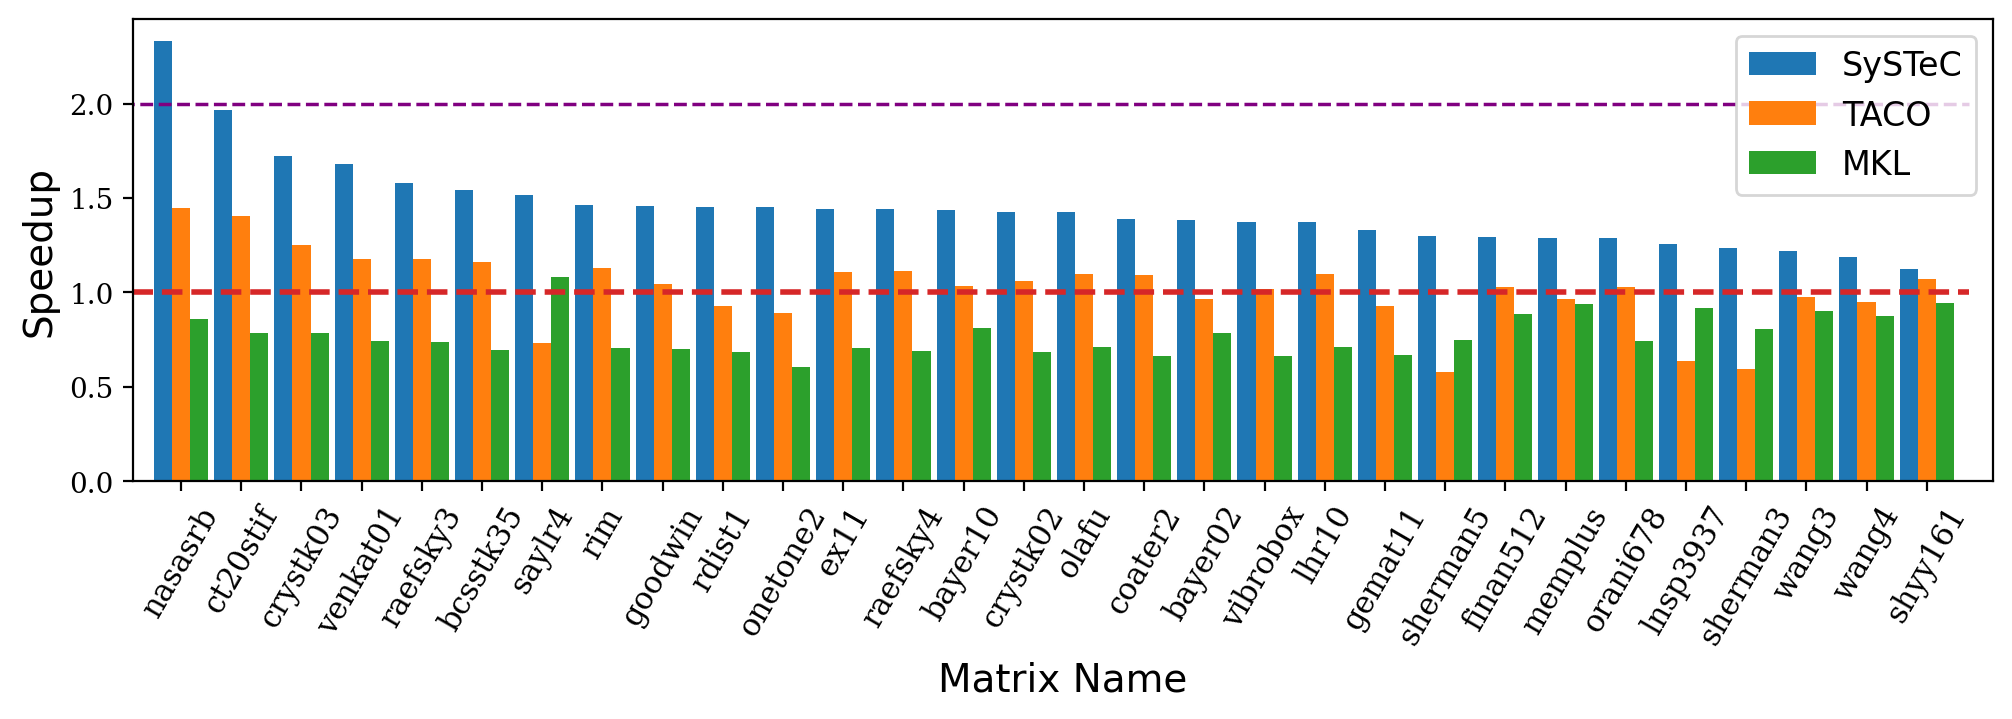
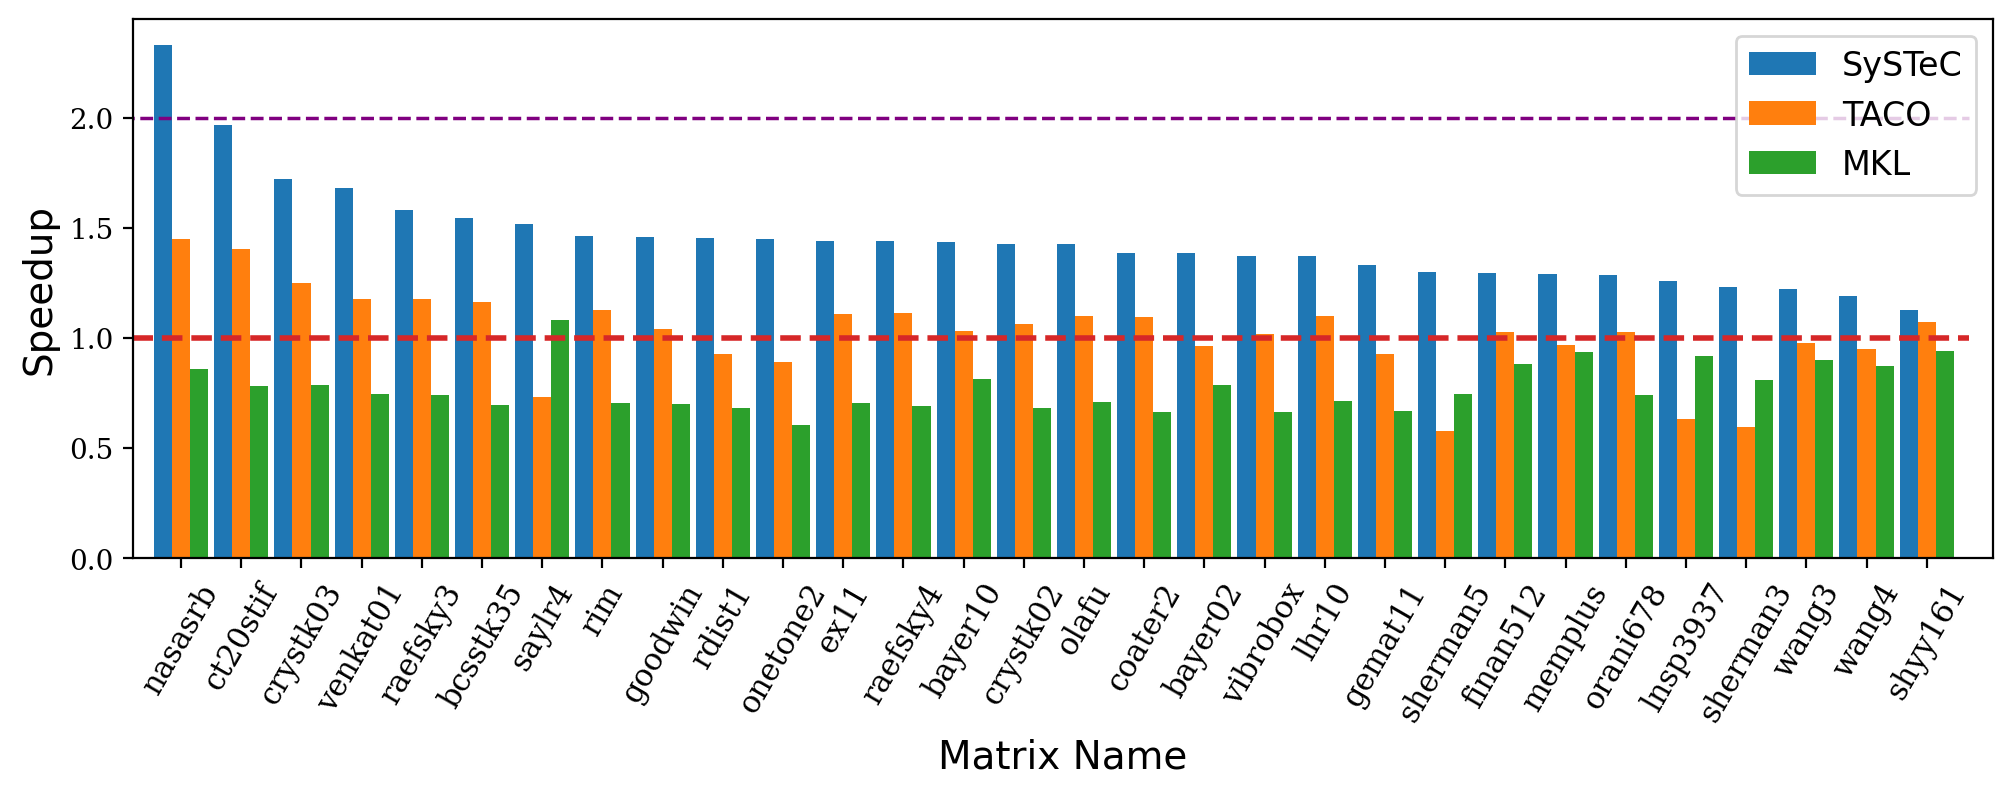
Make charts taller

diff --git a/kernels/cgo_chart.py b/kernels/cgo_chart.py
@@ -60,7 +60,7 @@ def make_grouped_bar_chart(labels, x_axis, data, colors = None, labeled_groups =
     max_height = 0
     multiplier = 0
     
-    fig, ax = plt.subplots(figsize=(plot_width, 3))
+    fig, ax = plt.subplots(figsize=(plot_width, 3.5))
     for label in labels:
         label_data = data[label]
         max_height = max(max_height, max(label_data))
